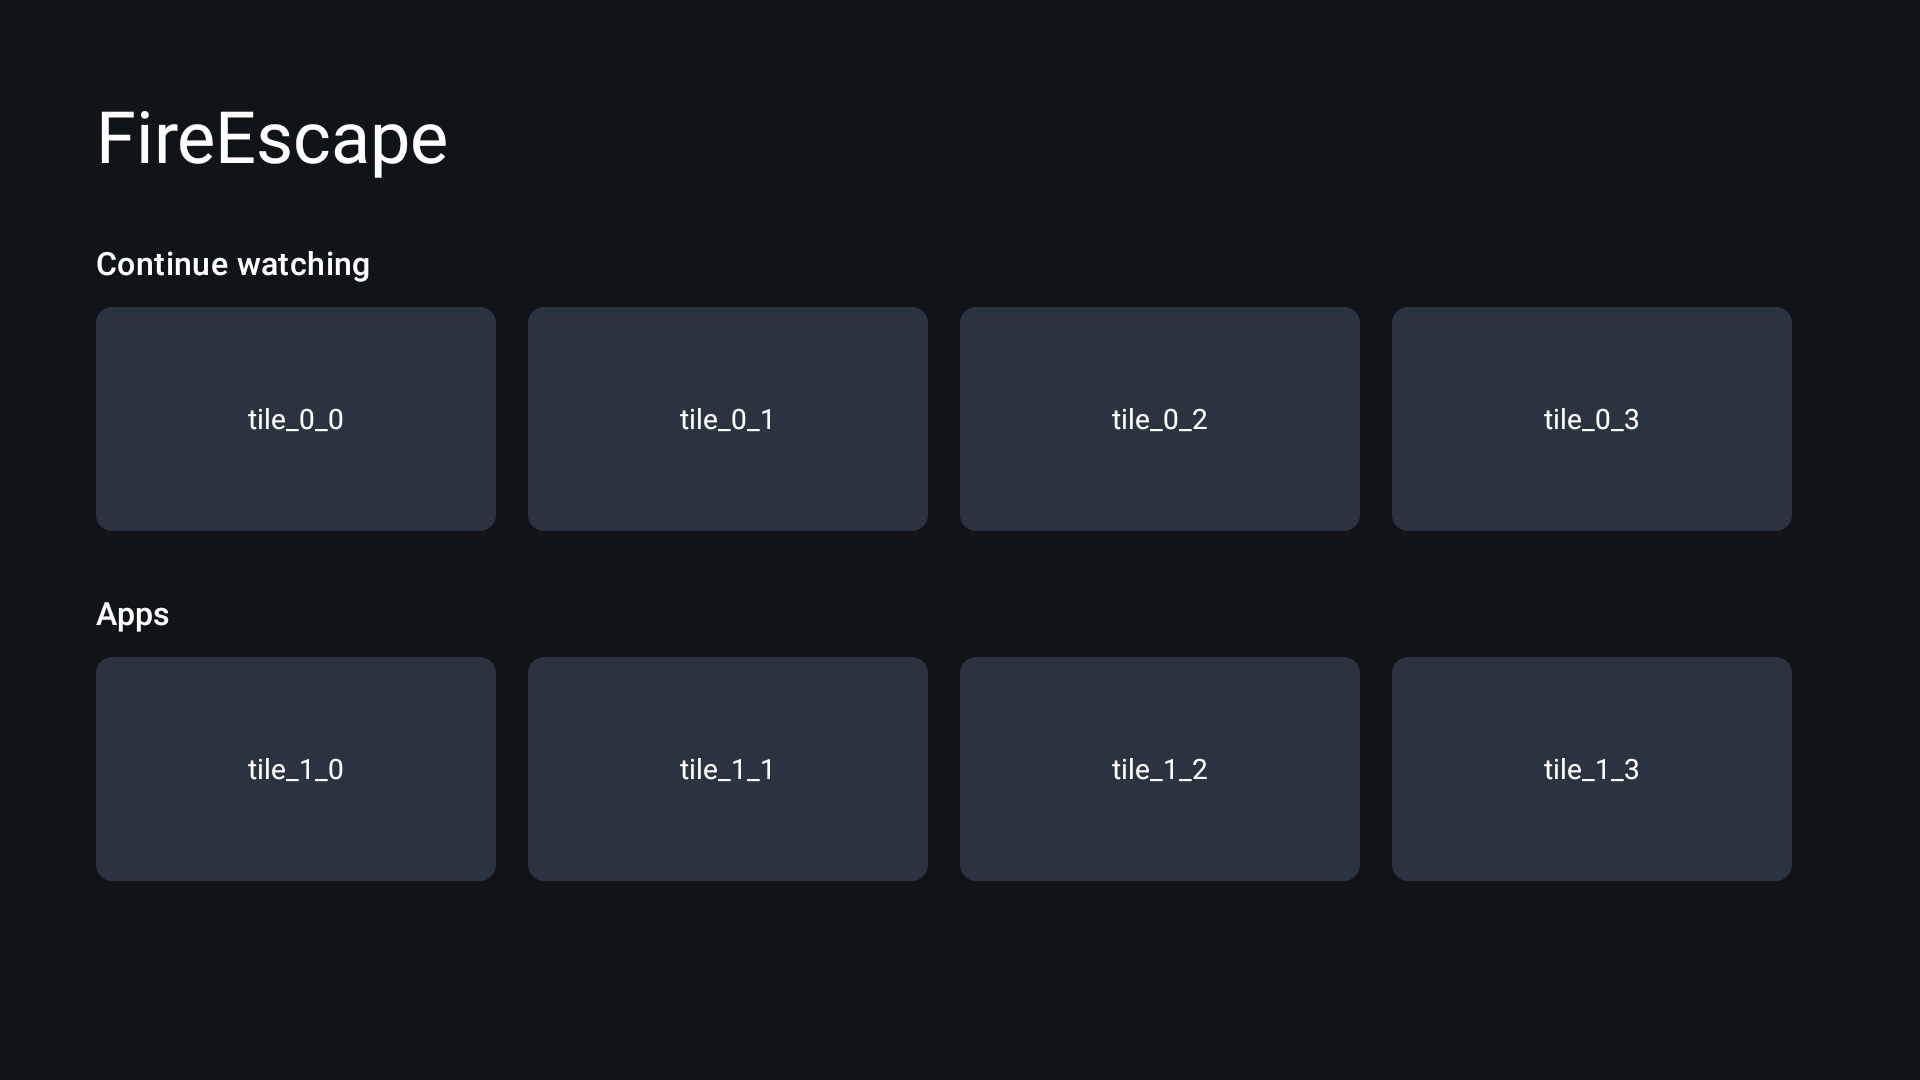
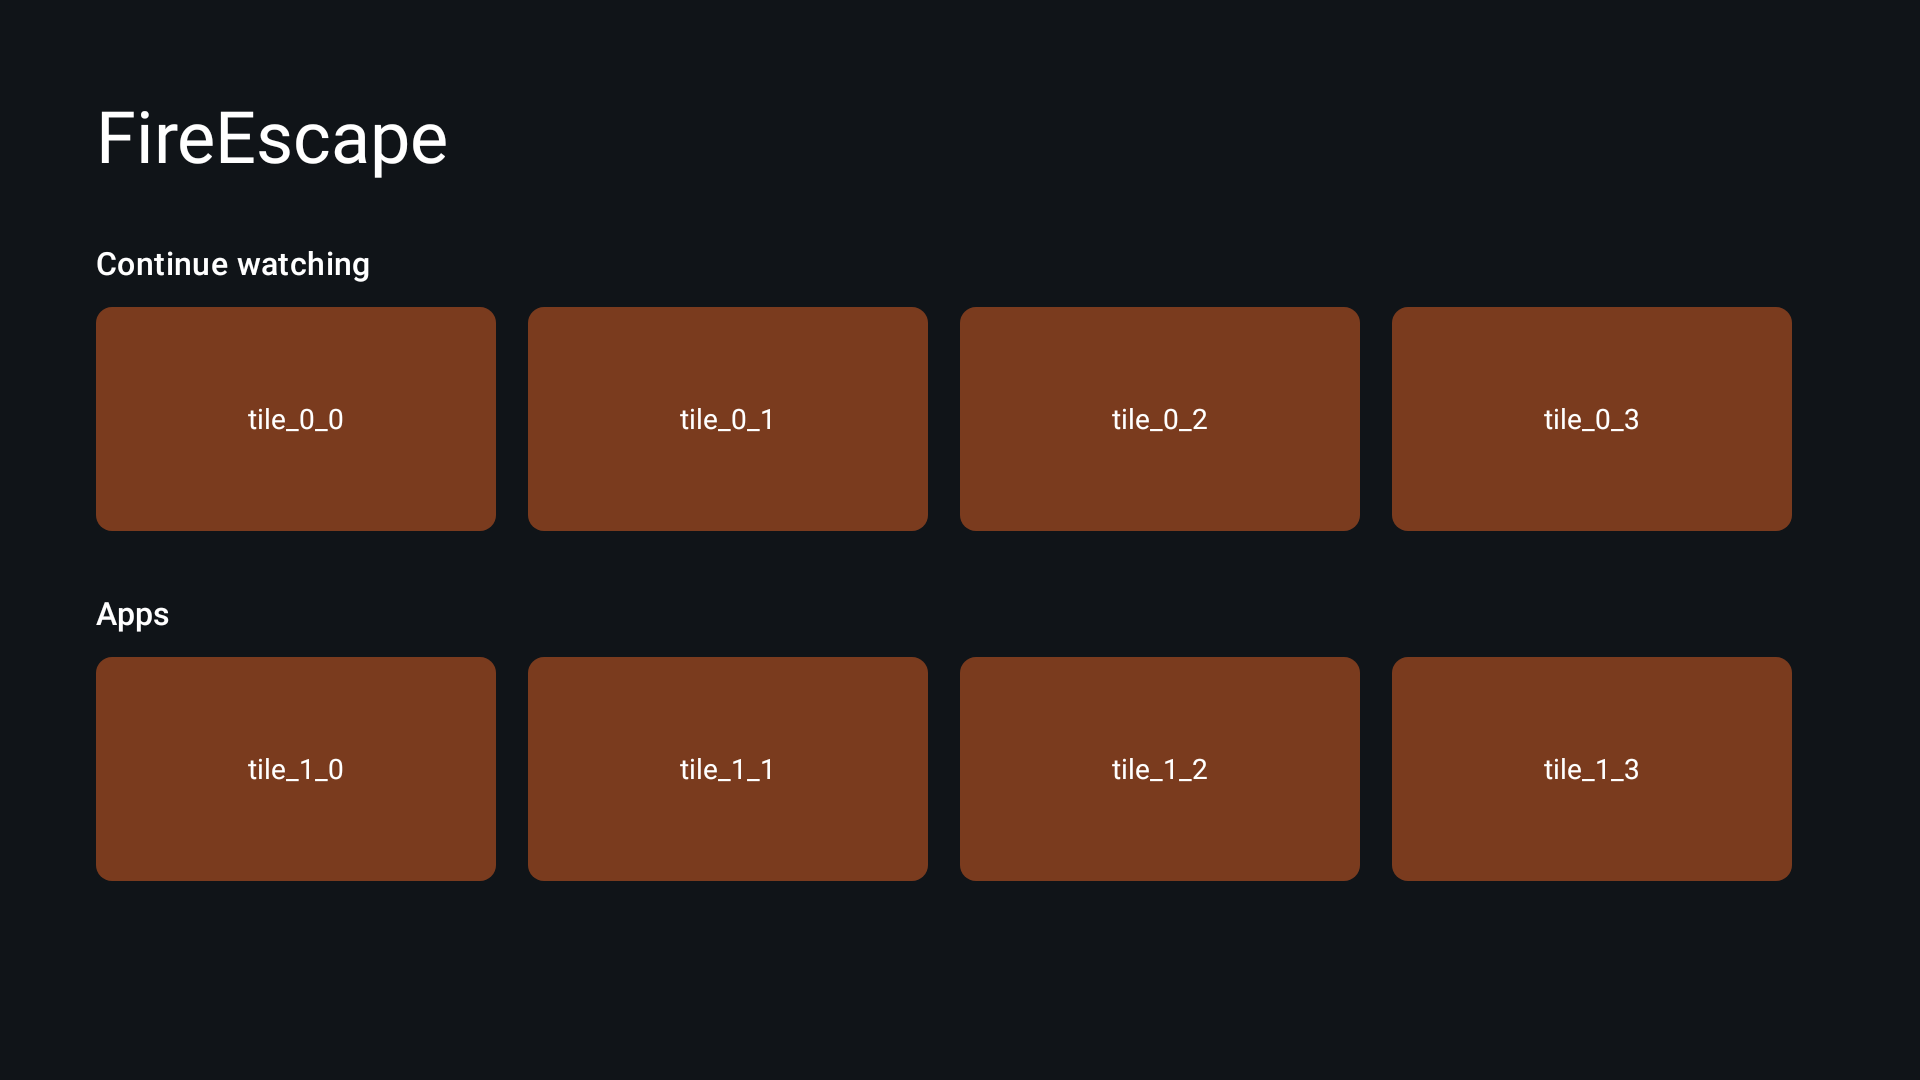
test: change tile color to exercise screenshot diff comment

diff --git a/launcher/src/main/kotlin/org/fireescape/launcher/HomeScreen.kt b/launcher/src/main/kotlin/org/fireescape/launcher/HomeScreen.kt
@@ -56,7 +56,7 @@ fun Tile(tag: String) {
             .testTag(tag)
             .width(200.dp)
             .height(112.dp)
-            .background(Color(0xFF2A3440), RoundedCornerShape(8.dp))
+            .background(Color(0xFF7A3B1E), RoundedCornerShape(8.dp))
             .border(
                 width = if (focused) 4.dp else 0.dp,
                 color = if (focused) Color.White else Color.Transparent,
